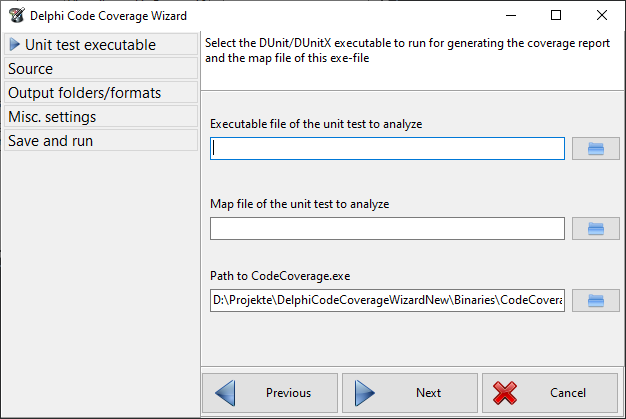
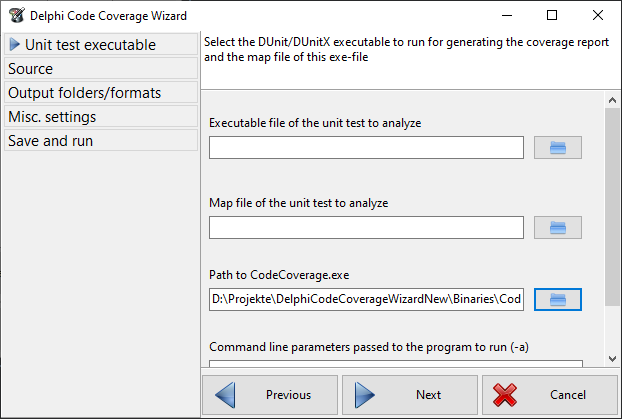
Updated readme and one screenshot

diff --git a/README.md b/README.md
@@ -35,11 +35,11 @@ In the root folder of the project you will find further files with information a
 this project like *NOTICE.txt*, *CONTRIBUTING.md*, *SECURITY.md*.
 
 ## Where is the Code Coverage command line tool from?
-The command line tool used is some not yet up to date version of this one:
+The command line tool used and included is the version of this one compiled at 2022/11/13:
 https://github.com/DelphiCodeCoverage/DelphiCodeCoverage
 
-The plan is to look at it again and update it, if it is still compatible or adapt
-if there's anything to change. This should happen in the near future.
+If the CodeCoverage.exe did not really change any parameters one can replace it with 
+a new version, if desired. Updates of the wizard should contain updated versions as well.
 
 ## How to install?
 Just open and run the project provided in the Source directory.
